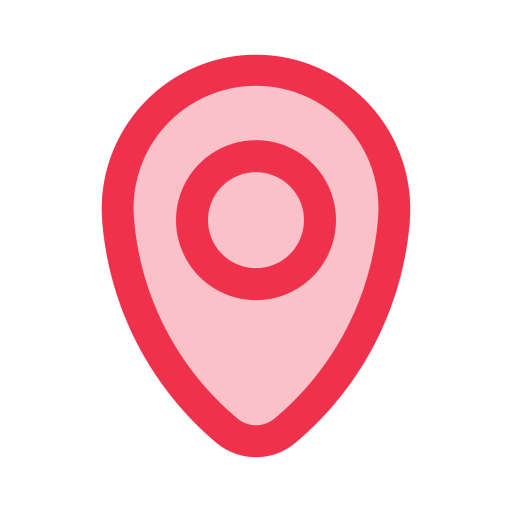
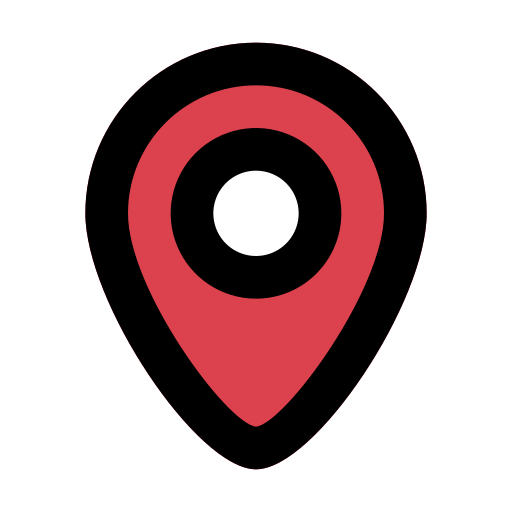
style: Distinguish between search landmarks and user landmarks

diff --git a/client/js/placeManager.js b/client/js/placeManager.js
@@ -32,10 +32,22 @@ async function findPlaces(placeText, map) {
       const organizedPlaces = [];
   
       places.forEach((place) => {
+        const searchFlagImg = document.createElement("img");
+        searchFlagImg.className = "icon"
+        searchFlagImg.src ="./images/search.png";
         const markerView = new AdvancedMarkerElement({
           map,
           position: place.location,
           title: place.displayName,
+          content: searchFlagImg,
+        });
+
+        const infowindow = new google.maps.InfoWindow({
+          content: place.displayName,
+        });
+
+        markerView.addListener("click", function () {
+          infowindow.open(map, markerView);
         });
   
         bounds.extend(place.location);
@@ -135,10 +147,22 @@ async function findPlaces(placeText, map) {
               const bounds = new LatLngBounds();
 
               data.forEach((place) => {
+                const searchFlagImg = document.createElement("img");
+                searchFlagImg.className = "icon"
+                searchFlagImg.src ="./images/search.png";
                 const markerView = new AdvancedMarkerElement({
                   map,
                   position: place.location,
                   title: place.displayName,
+                  content: searchFlagImg,
+                });
+
+                const infowindow = new google.maps.InfoWindow({
+                  content: place.displayName,
+                });
+
+                markerView.addListener("click", function () {
+                  infowindow.open(map, markerView);
                 });
           
                 bounds.extend(place.location);
